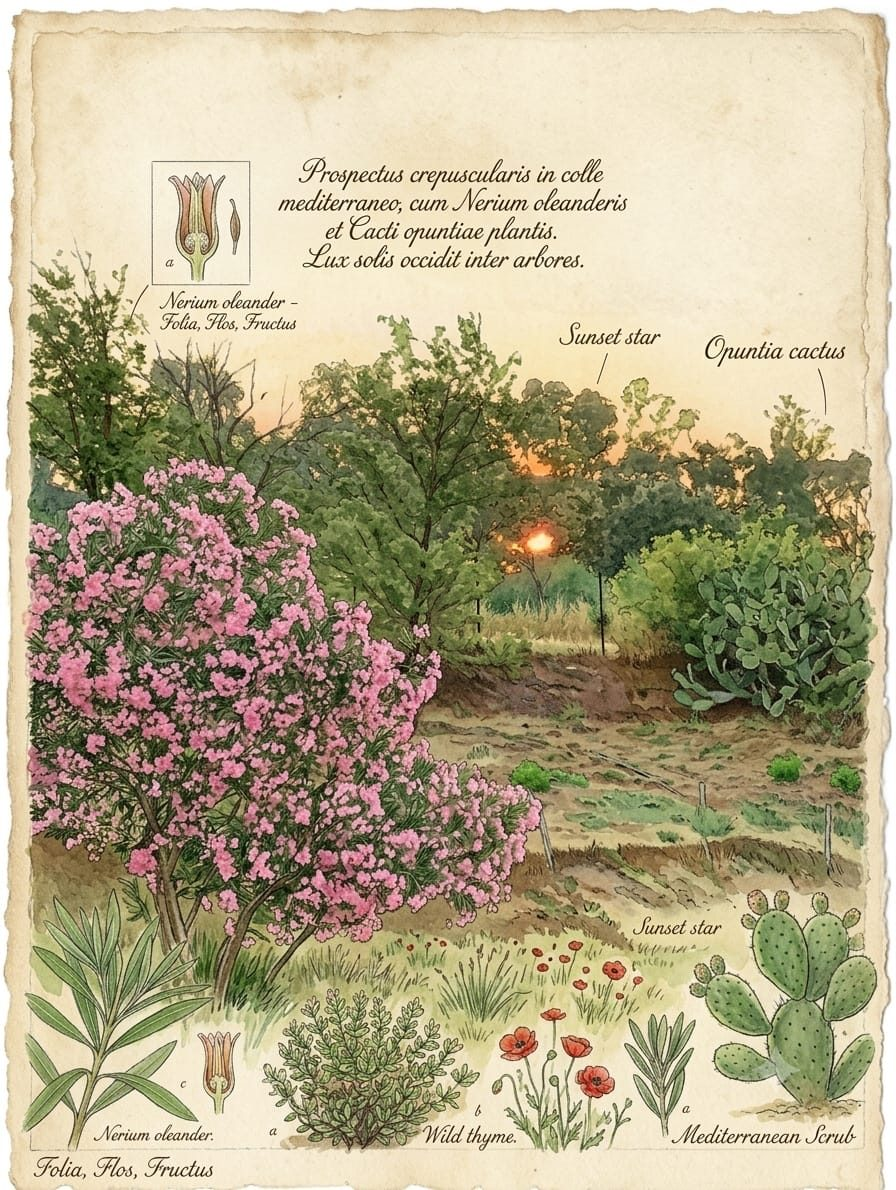
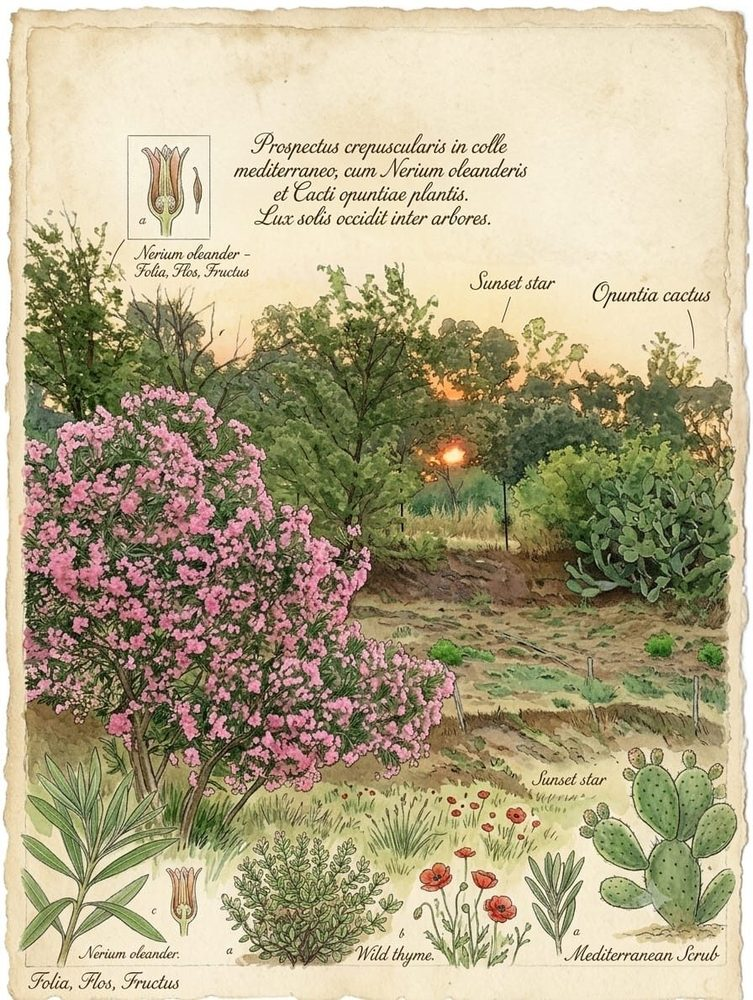
Prestazioni: miniature leggere per Art & Craft, immagine del blog alleggerita
Claude-Session: https://claude.ai/code/session_01DbcG8L9TWfKbhTDjmvF9U6

Changed region(s): [[0.1833, 0.248, 0.3054, 0.279], [0.7636, 0.93, 0.7942, 0.961], [0.6414, 0.124, 0.672, 0.155]]

diff --git a/fr/arte.html b/fr/arte.html
@@ -90,27 +90,27 @@
   <h2 class="tesori-titolo script">Mes 6 trésors pour le travail de l’âme</h2>
   <div class="tesori">
       <a class="tesoro paper-card" href="#carta">
-        <img src="../img/arte/carta.jpg" alt="Feuilles de papier fait main sur un tamis en bois, avec des fleurs séchées" loading="lazy">
+        <img src="../img/arte/mini/carta.jpg" alt="Feuilles de papier fait main sur un tamis en bois, avec des fleurs séchées" loading="lazy">
         <span class="tesoro-testo"><strong>Le Papier Fait Main</strong><em>Une matière qui accueille et garde les pensées</em></span>
       </a>
       <a class="tesoro paper-card" href="#calligrafia">
-        <img src="../img/arte/calligrafia.jpg" alt="Enveloppes en papier fait main fermées par des cachets de cire, à côté d’un stylo-plume" loading="lazy">
+        <img src="../img/arte/mini/calligrafia.jpg" alt="Enveloppes en papier fait main fermées par des cachets de cire, à côté d’un stylo-plume" loading="lazy">
         <span class="tesoro-testo"><strong>Poèmes-dédicaces & Calligraphie</strong><em>L’enchantement des mots écrits à la plume ou au porte-plume, pour célébrer l’âme</em></span>
       </a>
       <a class="tesoro paper-card" href="#quaderni">
-        <img src="../img/arte/quaderni.jpg" alt="Carnets reliés à la main en papier coloré, noués avec de la ficelle" loading="lazy">
+        <img src="../img/arte/mini/quaderni.jpg" alt="Carnets reliés à la main en papier coloré, noués avec de la ficelle" loading="lazy">
         <span class="tesoro-testo"><strong>Carnets et Petits Contes Reliés et Écrits à la Main</strong><em>Des écrins pour notre enfant adulte, gardiens du bonheur de tenir de petits trésors entre nos mains</em></span>
       </a>
       <a class="tesoro paper-card" href="#diario">
-        <img src="../img/arte/diario.jpg" alt="Journal créatif ouvert avec des vers d’automne et des stickers à l’aquarelle" loading="lazy">
+        <img src="../img/arte/mini/diario.jpg" alt="Journal créatif ouvert avec des vers d’automne et des stickers à l’aquarelle" loading="lazy">
         <span class="tesoro-testo"><strong>Journal Créatif & Scrapbooking</strong><em>Des espaces d’écoute, de libre expression et d’éveil de l’esprit</em></span>
       </a>
       <a class="tesoro paper-card" href="#candele">
-        <img src="../img/arte/candele.jpg" alt="Bougies dans des pots en verre décorés de tissus et de motifs botaniques" loading="lazy">
+        <img src="../img/arte/mini/candele.jpg" alt="Bougies dans des pots en verre décorés de tissus et de motifs botaniques" loading="lazy">
         <span class="tesoro-testo"><strong>Bougies Poétiques & Rituels</strong><em>Des flammes de lumière pour garder les intentions et faire place au silence</em></span>
       </a>
       <a class="tesoro paper-card" href="#carte-dei-nat">
-        <img src="../img/arte/carte-dei-nat.jpg" alt="Le livre et le jeu des Cartes des Nat entre bougies et fleurs séchées" loading="lazy">
+        <img src="../img/arte/mini/carte-dei-nat.jpg" alt="Le livre et le jeu des Cartes des Nat entre bougies et fleurs séchées" loading="lazy">
         <span class="tesoro-testo"><strong>Lecture Imaginale avec les Cartes des Nat</strong><em>Un outil d’écoute, de dialogue avec les ancêtres et d’apaisement intérieur</em></span>
       </a>
   </div>

diff --git a/arte.html b/arte.html
@@ -90,27 +90,27 @@
   <h2 class="tesori-titolo script">I miei 6 tesori per fare Anima</h2>
   <div class="tesori">
       <a class="tesoro paper-card" href="#carta">
-        <img src="img/arte/carta.jpg" alt="Fogli di carta fatta a mano su un telaio di legno, con fiori secchi" loading="lazy">
+        <img src="img/arte/mini/carta.jpg" alt="Fogli di carta fatta a mano su un telaio di legno, con fiori secchi" loading="lazy">
         <span class="tesoro-testo"><strong>La Carta Fatta a Mano</strong><em>Materia che accoglie e custodisce pensieri</em></span>
       </a>
       <a class="tesoro paper-card" href="#calligrafia">
-        <img src="img/arte/calligrafia.jpg" alt="Buste di carta fatta a mano chiuse con sigilli di ceralacca, accanto a una stilografica" loading="lazy">
+        <img src="img/arte/mini/calligrafia.jpg" alt="Buste di carta fatta a mano chiuse con sigilli di ceralacca, accanto a una stilografica" loading="lazy">
         <span class="tesoro-testo"><strong>Dedicopoesie & Calligrafia</strong><em>L'incanto delle parole scritte a piuma o pennino, per celebrare l'anima</em></span>
       </a>
       <a class="tesoro paper-card" href="#quaderni">
-        <img src="img/arte/quaderni.jpg" alt="Quaderni rilegati a mano in carta colorata, legati con lo spago" loading="lazy">
+        <img src="img/arte/mini/quaderni.jpg" alt="Quaderni rilegati a mano in carta colorata, legati con lo spago" loading="lazy">
         <span class="tesoro-testo"><strong>Quaderni e brevi Fiabe Rilegate e Scritte a Mano</strong><em>Scrigni per il nostro bambino adulto, custodi della felicità di stringere tra le mani piccoli tesori</em></span>
       </a>
       <a class="tesoro paper-card" href="#diario">
-        <img src="img/arte/diario.jpg" alt="Diario creativo aperto con versi d'autunno e adesivi ad acquerello" loading="lazy">
+        <img src="img/arte/mini/diario.jpg" alt="Diario creativo aperto con versi d'autunno e adesivi ad acquerello" loading="lazy">
         <span class="tesoro-testo"><strong>Diario Creativo & Scrapbooking</strong><em>Spazi di ascolto, libera espressione e risveglio della mente</em></span>
       </a>
       <a class="tesoro paper-card" href="#candele">
-        <img src="img/arte/candele.jpg" alt="Candele in vasetti di vetro decorati con stoffe e motivi botanici" loading="lazy">
+        <img src="img/arte/mini/candele.jpg" alt="Candele in vasetti di vetro decorati con stoffe e motivi botanici" loading="lazy">
         <span class="tesoro-testo"><strong>Candele Poetiche & Rituali</strong><em>Fiamme di luce per custodire intenzioni e fare spazio al silenzio</em></span>
       </a>
       <a class="tesoro paper-card" href="#carte-dei-nat">
-        <img src="img/arte/carte-dei-nat.jpg" alt="Il libro e il mazzo delle Carte dei Nat tra candele e fiori secchi" loading="lazy">
+        <img src="img/arte/mini/carte-dei-nat.jpg" alt="Il libro e il mazzo delle Carte dei Nat tra candele e fiori secchi" loading="lazy">
         <span class="tesoro-testo"><strong>Lettura Immaginale con le Carte dei Nat</strong><em>Uno strumento di ascolto, dialogo con gli antenati e pacificazione interiore</em></span>
       </a>
   </div>

diff --git a/en/arte.html b/en/arte.html
@@ -90,27 +90,27 @@
   <h2 class="tesori-titolo script">My 6 treasures for soul-making</h2>
   <div class="tesori">
       <a class="tesoro paper-card" href="#carta">
-        <img src="../img/arte/carta.jpg" alt="Sheets of handmade paper on a wooden mould, with dried flowers" loading="lazy">
+        <img src="../img/arte/mini/carta.jpg" alt="Sheets of handmade paper on a wooden mould, with dried flowers" loading="lazy">
         <span class="tesoro-testo"><strong>Handmade Paper</strong><em>Matter that welcomes and keeps thoughts</em></span>
       </a>
       <a class="tesoro paper-card" href="#calligrafia">
-        <img src="../img/arte/calligrafia.jpg" alt="Handmade paper envelopes sealed with wax seals, next to a fountain pen" loading="lazy">
+        <img src="../img/arte/mini/calligrafia.jpg" alt="Handmade paper envelopes sealed with wax seals, next to a fountain pen" loading="lazy">
         <span class="tesoro-testo"><strong>Dedication Poems & Calligraphy</strong><em>The enchantment of words written with quill or nib, to celebrate the soul</em></span>
       </a>
       <a class="tesoro paper-card" href="#quaderni">
-        <img src="../img/arte/quaderni.jpg" alt="Hand-bound notebooks in coloured paper, tied with twine" loading="lazy">
+        <img src="../img/arte/mini/quaderni.jpg" alt="Hand-bound notebooks in coloured paper, tied with twine" loading="lazy">
         <span class="tesoro-testo"><strong>Notebooks and Short Fairy Tales, Hand-bound and Handwritten</strong><em>Treasure chests for our adult child, keepers of the joy of holding little treasures in our hands</em></span>
       </a>
       <a class="tesoro paper-card" href="#diario">
-        <img src="../img/arte/diario.jpg" alt="Open creative journal with autumn verses and watercolour stickers" loading="lazy">
+        <img src="../img/arte/mini/diario.jpg" alt="Open creative journal with autumn verses and watercolour stickers" loading="lazy">
         <span class="tesoro-testo"><strong>Creative Journal & Scrapbooking</strong><em>Spaces for listening, free expression and awakening of the mind</em></span>
       </a>
       <a class="tesoro paper-card" href="#candele">
-        <img src="../img/arte/candele.jpg" alt="Candles in glass jars decorated with fabric and botanical motifs" loading="lazy">
+        <img src="../img/arte/mini/candele.jpg" alt="Candles in glass jars decorated with fabric and botanical motifs" loading="lazy">
         <span class="tesoro-testo"><strong>Poetic Candles & Rituals</strong><em>Flames of light to hold intentions and make room for silence</em></span>
       </a>
       <a class="tesoro paper-card" href="#carte-dei-nat">
-        <img src="../img/arte/carte-dei-nat.jpg" alt="The book and deck of the Nat Cards among candles and dried flowers" loading="lazy">
+        <img src="../img/arte/mini/carte-dei-nat.jpg" alt="The book and deck of the Nat Cards among candles and dried flowers" loading="lazy">
         <span class="tesoro-testo"><strong>Imaginal Reading with the Nat Cards</strong><em>A tool for listening, dialogue with the ancestors and inner peace</em></span>
       </a>
   </div>

diff --git a/en/blog.html b/en/blog.html
@@ -79,7 +79,7 @@
   </div>
 
   <a class="youtube paper-card" href="https://libroarbitrio.wordpress.com/" target="_blank" rel="noopener">
-    <img src="../img/tavola-botanica.jpg" alt="" class="yt-thumb">
+    <img src="../img/tavola-botanica.jpg?v=2" alt="" class="yt-thumb">
     <div class="yt-text">
       <p class="label">The blog · since 2012</p>
       <h3 class="script">Libroarbitrio</h3>

diff --git a/fr/blog.html b/fr/blog.html
@@ -79,7 +79,7 @@
   </div>
 
   <a class="youtube paper-card" href="https://libroarbitrio.wordpress.com/" target="_blank" rel="noopener">
-    <img src="../img/tavola-botanica.jpg" alt="" class="yt-thumb">
+    <img src="../img/tavola-botanica.jpg?v=2" alt="" class="yt-thumb">
     <div class="yt-text">
       <p class="label">Le blog · depuis 2012</p>
       <h3 class="script">Libroarbitrio</h3>

diff --git a/blog.html b/blog.html
@@ -79,7 +79,7 @@
   </div>
 
   <a class="youtube paper-card" href="https://libroarbitrio.wordpress.com/" target="_blank" rel="noopener">
-    <img src="img/tavola-botanica.jpg" alt="" class="yt-thumb">
+    <img src="img/tavola-botanica.jpg?v=2" alt="" class="yt-thumb">
     <div class="yt-text">
       <p class="label">Il blog · dal 2012</p>
       <h3 class="script">Libroarbitrio</h3>
